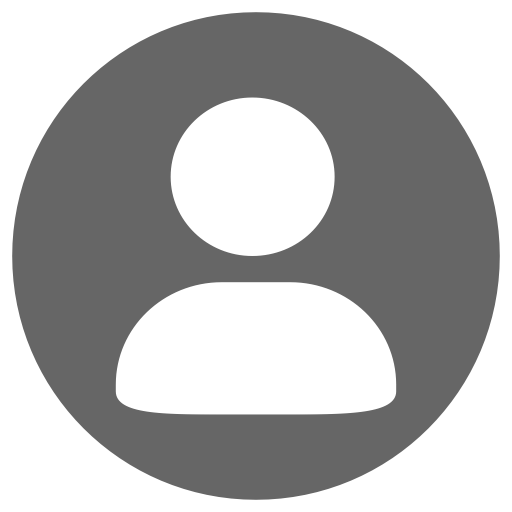
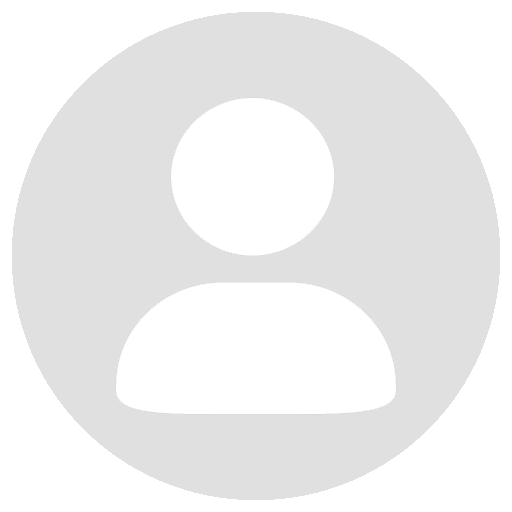
feat: improve edit page, style changes

diff --git a/bugalink-frontend/pages/users/[id]/edit.tsx b/bugalink-frontend/pages/users/[id]/edit.tsx
@@ -3,12 +3,15 @@ import CTAButton from '@/components/buttons/CTA';
 import TextField from '@/components/forms/TextField';
 import AnimatedLayout from '@/components/layouts/animated';
 import NEXT_ROUTES from '@/constants/nextRoutes';
+import useUser from '@/hooks/useUser';
+import UserI from '@/interfaces/user';
 import { axiosAuth } from '@/lib/axios';
+import { GetServerSideProps } from 'next';
 import { User } from 'next-auth';
 import { signOut, useSession } from 'next-auth/react';
 import Avatar from 'public/assets/avatar.svg';
 import Pencil from 'public/assets/edit.svg';
-import { useRef, useState } from 'react';
+import { useEffect, useRef, useState } from 'react';
 
 interface FormErrors {
   name?: string;
@@ -24,16 +27,36 @@ interface FormValues {
   password: string;
 }
 
-export default function EditProfile() {
-  const { data } = useSession();
-  const user = data?.user as User;
+export const getServerSideProps: GetServerSideProps = async (context) => {
+  const { id } = context.query;
 
-  const [name, setName] = useState<string>('Pedro');
-  const [surname, setSurname] = useState<string>('Pérez');
-  const [email, setEmail] = useState<string>('pedroperez@mail.com');
-  const [password, setPassword] = useState<string>('password1D3!');
+  const data = {
+    id: id,
+  };
 
-  const [showPassword, setShowPassword] = useState<boolean>(false);
+  return {
+    props: { data },
+  };
+};
+
+export default function EditProfile({ data }) {
+  const userId = data.id;
+
+  const user = useUser(userId).user as UserI;
+
+  useEffect(() => {
+    if (!user) return;
+    setName(user.first_name);
+    setSurname(user.last_name);
+    setEmail(user.email);
+  }, [user]);
+  const [name, setName] = useState<string>('');
+  const [surname, setSurname] = useState<string>('');
+  const [email, setEmail] = useState<string>('');
+  const [password, setPassword] = useState<string>('');
+  const [isDeleteConfirmation, setIsDeleteConfirmation] = useState(false);
+
+  const [showPassword, setShowPassword] = useState(false);
   const [errors, setErrors] = useState<FormErrors>({});
 
   const formRef = useRef<HTMLFormElement>(null);
@@ -99,12 +122,19 @@ export default function EditProfile() {
     }
   };
 
+  const handleDeleteConfirmation = (
+    event: React.MouseEvent<HTMLButtonElement>
+  ) => {
+    event.preventDefault();
+    setIsDeleteConfirmation(true);
+  };
+
   const handleDeleteAccount = async (
     event: React.MouseEvent<HTMLButtonElement>
   ) => {
     event.preventDefault();
     try {
-      const response = await axiosAuth.delete(`/users/${user.user_id}`);
+      const response = await axiosAuth.delete(`/users/${user.id}`);
       if (response.status === 204) {
         await signOut({
           callbackUrl: NEXT_ROUTES.LOGIN,
@@ -120,15 +150,17 @@ export default function EditProfile() {
       <BackButtonText text="Mi perfil" />
       <div className="flex h-full w-full flex-col items-center overflow-y-scroll">
         <div className="z-10 mb-5 rounded-t-3xl text-center">
-          <div className="relative mx-auto w-min">
-            <Avatar className="mx-auto my-2 h-24 w-24 rounded-full outline outline-8 outline-white" />
+          <div className="relative mx-auto h-24 w-24 ">
+            <img
+              src={user.photo || '/assets/anonymus-avatar.png'}
+              className="my-2 aspect-square rounded-full outline outline-8 outline-white"
+            />
             <div id="check" className="absolute -bottom-2 -right-2">
               <div className="flex aspect-square h-10 w-10 rounded-full bg-turquoise">
                 <Pencil className="p-1 text-white" />
               </div>
             </div>
           </div>
-          <p className="pt-2 text-3xl ">Pedro Pérez</p>
         </div>
         <form
           ref={formRef}
@@ -143,7 +175,7 @@ export default function EditProfile() {
               type="text"
               error={errors.name}
               parentClassName="w-10/12 flex flex-col items-center"
-              inputClassName="w-full focus:text-black text-light-gray"
+              inputClassName="w-full focus:text-black text-gray"
             />
 
             <TextField
@@ -154,7 +186,7 @@ export default function EditProfile() {
               type="text"
               error={errors.surname}
               parentClassName="w-10/12 flex flex-col items-center"
-              inputClassName="w-full focus:text-black text-light-gray"
+              inputClassName="w-full focus:text-black text-gray"
             />
 
             <hr className="mx-2 w-11/12 text-light-gray" />
@@ -166,8 +198,9 @@ export default function EditProfile() {
               setContent={setEmail}
               type="email"
               error={errors.email}
+              disabled
               parentClassName="w-10/12 flex flex-col items-center"
-              inputClassName="w-full focus:text-black text-light-gray"
+              inputClassName="w-full focus:text-black text-gray"
             />
 
             <TextField
@@ -178,17 +211,28 @@ export default function EditProfile() {
               type="password"
               error={errors.password}
               parentClassName="w-10/12 flex flex-col items-center"
-              inputClassName="w-full focus:text-black text-light-gray"
+              inputClassName="w-full focus:text-black text-gray"
               showPassword={showPassword}
               setShowPassword={setShowPassword}
             />
           </div>
           <div className="my-5 flex w-full flex-col items-center justify-center">
-            <button className="text-red" onClick={handleDeleteAccount}>
-              Solicita la eliminación de tu cuenta
-            </button>
+            {isDeleteConfirmation ? (
+              <button className="text-red" onClick={handleDeleteAccount}>
+                Pulsa de nuevo para eliminar tu cuenta
+              </button>
+            ) : (
+              <button className="text-red" onClick={handleDeleteConfirmation}>
+                Solicita la eliminación de tu cuenta
+              </button>
+            )}
             <p className="mb-2 text-sm font-semibold text-gray">
-              Usuario desde el 22 de marzo de 2023
+              Usuario desde el{' '}
+              {new Date(user.date_joined).toLocaleDateString('es-ES', {
+                year: 'numeric',
+                month: 'long',
+                day: 'numeric',
+              })}
             </p>
             <CTAButton
               className="w-11/12"

diff --git a/bugalink-frontend/pages/signup/index.tsx b/bugalink-frontend/pages/signup/index.tsx
@@ -1,4 +1,3 @@
-import { BackButton } from '@/components/buttons/Back';
 import CTAButton from '@/components/buttons/CTA';
 import ExternalLogin from '@/components/externalLogin';
 import TextField from '@/components/forms/TextField';
@@ -55,10 +54,10 @@ export default function Register() {
   }, [registerStatus]);
 
   return (
-    <AnimatedLayout className="bg-white">
-      <div className="flex flex-col -space-y-5">
-        <span className="flex w-full justify-center bg-light-gray">
-          <RegisterImg className="bg-light-gray" />
+    <AnimatedLayout>
+      <div className="flex h-full flex-col justify-end -space-y-10">
+        <span className="flex w-full justify-center overflow-x-clip">
+          <RegisterImg className="origin-bottom scale-110 bg-light-gray" />
         </span>
         <div className="z-10 rounded-t-3xl bg-base-origin text-center">
           <p className=" py-5 text-3xl text-gray ">Crear cuenta nueva</p>
@@ -123,15 +122,6 @@ export default function Register() {
 
               <span className="flex flex-col items-center pt-2">
                 <p className="font-light text-gray">
-                  Al registrarte aceptas nuestros{' '}
-                  <a
-                    href="https://www.bugalink.es/terms"
-                    className="font-normal text-dark-turquoise"
-                  >
-                    Términos y condiciones
-                  </a>
-                </p>
-                <p className="font-light text-gray">
                   ¿Ya tienes una cuenta?{' '}
                   <Link
                     href={NEXT_ROUTES.LOGIN}
@@ -139,6 +129,15 @@ export default function Register() {
                   >
                     Iniciar sesión
                   </Link>
+                </p>
+                <p className="pt-2 text-sm font-light text-gray">
+                  Al registrarte aceptas nuestros{' '}
+                  <a
+                    href="https://www.bugalink.es/terms"
+                    className="font-normal text-dark-turquoise"
+                  >
+                    Términos y condiciones
+                  </a>
                 </p>
               </span>
             </form>

diff --git a/bugalink-frontend/pages/users/[id]/index.tsx b/bugalink-frontend/pages/users/[id]/index.tsx
@@ -37,7 +37,7 @@ export default function Profile({ data }) {
         <div className="z-10 rounded-t-3xl text-center">
           <div className="relative mx-auto h-24 w-24 ">
             <img
-              src={user.photo || '/assets/avatar.png'}
+              src={user.photo || '/assets/anonymus-avatar.png'}
               className="my-2 aspect-square rounded-full outline outline-8 outline-white"
             />
             <div id="check" className="absolute -bottom-2 -right-2">
@@ -59,21 +59,19 @@ export default function Profile({ data }) {
           <div className="mx-4 mb-6 flex place-items-end justify-evenly space-x-4 ">
             <div className="w-full -space-y-1 rounded-lg bg-white p-2 shadow-lg">
               <p className="text-xl font-bold">
-                {user?.date_joined
-                  ? `Desde ${user.date_joined.substring(0, 4)} `
-                  : ''}
+                {user?.date_joined ? user.date_joined.substring(0, 4) : '—'}
               </p>
               <p className="text-sm text-gray">Antiguedad</p>
             </div>
             <div className="w-full -space-y-1 rounded-lg bg-white p-2 shadow-lg">
               <p className="text-xl font-bold">
-                {userTotalRides ? userTotalRides.total_rides : '0'}
+                {userTotalRides ? userTotalRides.total_rides : '—'}
               </p>
               <p className="text-sm text-gray">Viajes</p>
             </div>
             <div className="w-full -space-y-1 rounded-lg bg-white p-2 shadow-lg">
               <p className="text-xl font-bold">
-                {userTotalRatings ? `${userTotalRatings.rating} ⭐` : '0.0 ⭐'}
+                {userTotalRatings ? `${userTotalRatings.rating} ⭐` : '—'}
               </p>
 
               <p className="text-sm text-gray">Valoraciones</p>

diff --git a/bugalink-frontend/components/cards/upcoming/index.tsx b/bugalink-frontend/components/cards/upcoming/index.tsx
@@ -76,7 +76,7 @@ const DriverCardHeader = ({ trip }: { trip: TripI }) => (
             style={{ zIndex: 3 - index }} // for reverse stacking
             key={`passenger-${index}`}
             id={`passenger-${index}`}
-            src={passenger.user.photo ?? '/assets/avatar.png'}
+            src={passenger.user.photo ?? '/assets/anonymus-avatar.png'}
           />
         ))}
       </span>
@@ -89,7 +89,10 @@ const DriverCardHeader = ({ trip }: { trip: TripI }) => (
               key={`passenger-${index}`}
               className="text-md truncate leading-5"
             >
-              {passenger.user.first_name}{' '}
+              {passenger.user.first_name
+                .split(' ')
+                .map((name, idx) => (idx > 0 ? name.charAt(0) + '.' : name))
+                .join(' ')}{' '}
               {passenger.user.last_name.split(' ')[0]}
             </p>
           ))}
@@ -119,7 +122,7 @@ const PassengerCardHeader = ({ trip }: { trip: TripI }) => (
     <span className="flex h-full items-center space-x-3 px-3">
       <img
         className="aspect-square w-14 rounded-full object-scale-down"
-        src={trip.driver.user.photo ?? '/assets/avatar.png'}
+        src={trip.driver.user.photo ?? '/assets/anonymus-avatar.png'}
       />
       <div className="flex flex-col -space-y-1">
         <p className="text-lg font-extrabold leading-5 tracking-wide">

diff --git a/bugalink-frontend/pages/search/result.tsx b/bugalink-frontend/pages/search/result.tsx
@@ -54,7 +54,7 @@ const searchResultsMock = [
     type: 'driver',
     rating: 4.6,
     name: 'Paco Perez',
-    avatar: '/assets/avatar.png',
+    avatar: '/assets/anonymus-avatar.png',
     gender: 'M',
     origin: 'Centro Comercial Way',
     destination: 'ETSII',
@@ -76,7 +76,7 @@ const searchResultsMock = [
     type: 'driver',
     rating: 4.7,
     name: 'Alberto Chicote',
-    avatar: '/assets/avatar.png',
+    avatar: '/assets/anonymus-avatar.png',
     gender: 'M',
     origin: 'Centro Comercial Lagoh',
     destination: 'Isla Mágica',
@@ -198,7 +198,7 @@ export default function SearchResults() {
           <div className="col-span-6 w-full pr-4">
             <input
               type="search"
-              placeholder="Desde dónde quieres ir?"
+              placeholder="¿Desde dónde quieres ir?"
               value="Casa"
               className="ml-2 mr-2 w-full rounded-full bg-base-origin p-4 text-sm"
             ></input>

diff --git a/bugalink-frontend/components/avatarWithRating/index.tsx b/bugalink-frontend/components/avatarWithRating/index.tsx
@@ -2,7 +2,7 @@ export default function AvatarWithRating({ avatar, rating }) {
   return (
     <div className="relative">
       <img
-        src={avatar ?? '/assets/avatar.png'}
+        src={avatar ?? '/assets/anonymus-avatar.png'}
         className="mx-auto aspect-square w-14 rounded-full"
       ></img>
       <div className="absolute -bottom-2 right-0 left-0 rounded-full bg-white py-[0.05rem] text-center text-xs font-semibold shadow-md outline outline-1 outline-light-gray">

diff --git a/bugalink-frontend/pages/ride/[id]/detailsOne.tsx b/bugalink-frontend/pages/ride/[id]/detailsOne.tsx
@@ -38,7 +38,7 @@ export default function DetailsOne() {
             name="Jesús Marchena"
             rating="4.8"
             numberOfRatings="14"
-            photo="/assets/avatar.png"
+            photo="/assets/anonymus-avatar.png"
           />
           {/* Origin and target destinations */}
           <div className="grid grid-cols-2 gap-2 py-2 text-sm">

diff --git a/bugalink-frontend/pages/ride/[id]/detailsTwo.tsx b/bugalink-frontend/pages/ride/[id]/detailsTwo.tsx
@@ -38,7 +38,7 @@ export default function DetailsTwo() {
           name="Jesús Marchena"
           rating="4.8"
           numberOfRatings="14"
-          photo="/assets/avatar.png"
+          photo="/assets/anonymus-avatar.png"
           className="mb-2"
         />
         {/* Map preview */}

diff --git a/bugalink-frontend/pages/login/index.tsx b/bugalink-frontend/pages/login/index.tsx
@@ -1,4 +1,3 @@
-import { BackButton } from '@/components/buttons/Back';
 import CTAButton from '@/components/buttons/CTA';
 import ExternalLogin from '@/components/externalLogin';
 import TextField from '@/components/forms/TextField';

diff --git a/bugalink-frontend/interfaces/user.ts b/bugalink-frontend/interfaces/user.ts
@@ -1,6 +1,6 @@
 type UserI = {
   id: number;
-  date_joined: string;
+  date_joined: string; // 2023-04-06T11:41:54.046785Z
   email: string;
   first_name: string;
   last_name: string;
